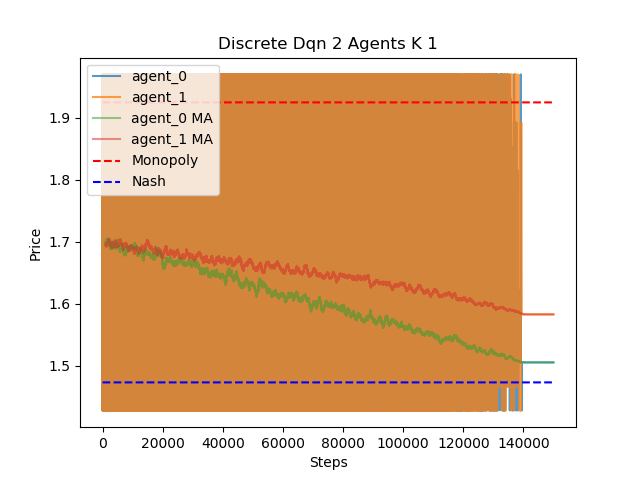
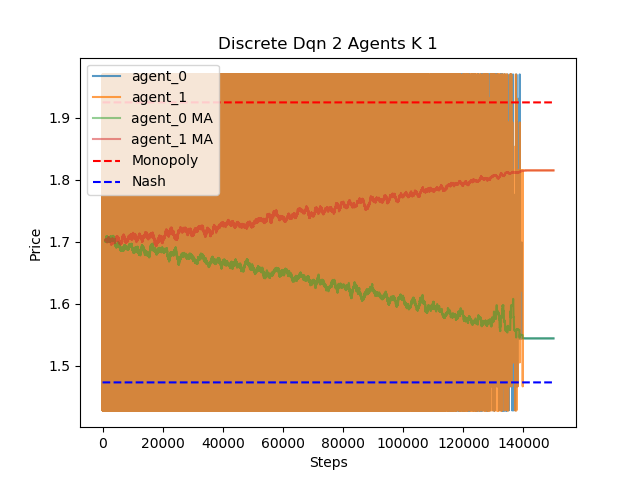
auto

Changed region(s): [[0.1562, 0.375, 0.875, 0.875], [0.75, 0.1562, 0.875, 0.5312]]

diff --git a/gym_bertrand_test.py b/gym_bertrand_test.py
@@ -58,8 +58,8 @@ from ray.tune.logger import pretty_print
 # CHANGE PARAMETERS FOR TESTING
 
 # Trainer Choice (Options: QL, SARSA, DQN, PPO, A3C, A2C, DDPG)
-trainer_choice = 'PPO'
-second_trainer_choice = 'DDPG' # leave as empty string ('') for none
+trainer_choice = 'DDPG'
+second_trainer_choice = '' # leave as empty string ('') for none
 
 # Collusion Mitigation Mechanism
 supervisor = False
@@ -81,9 +81,10 @@ log_frequency = 50000
 # Performance and Testing
 overwrite_id = 1
 num_gpus = 0
+len_eval_after_training = 1000
 len_eval_after_deviation = 20
 
-if trainer_choice in ['QL', 'SARSA', 'A3C', 'DQN']:
+if trainer_choice in ['QL', 'SARSA', 'DQN', 'PPO']:
     state_space = 'discrete'
 else:
     state_space = 'continuous'
@@ -112,8 +113,8 @@ config = {
 
 path = os.path.abspath(os.getcwd())
 
-def eval_then_unload(observation):
-    for i in range(len_eval_after_deviation):
+def eval_then_unload(observation, len_eval):
+    for i in range(len_eval):
         # action = trainer.compute_action(observation)
         action = {}
         for agent_id, agent_obs in observation.items():
@@ -139,7 +140,7 @@ def eval_then_unload(observation):
 if trainer_choice not in ['QL', 'SARSA']:
 
     use_pickle = True
-    max_steps = 10000
+    max_steps = 50000
 
     pklfile = './arrays/' + savefile + '.pkl'
 
@@ -213,7 +214,7 @@ if trainer_choice not in ['QL', 'SARSA']:
                     # Config for the Exploration class' constructor:
                     "initial_epsilon": 1.0,
                     "final_epsilon": 0.000001,
-                    "epsilon_timesteps": 100000,  # Timesteps over which to anneal epsilon. Originally set to 250000.
+                    "epsilon_timesteps": 140000,  # Timesteps over which to anneal epsilon. Originally set to 250000.
                 }
             trainer = DQNTrainer(config = config, env = 'Bertrand')
         elif trainer_choice == 'PPO':
@@ -286,7 +287,6 @@ if trainer_choice not in ['QL', 'SARSA']:
         if 'PPO' in trainer_choice_list and 'DQN' in trainer_choice_list:
             custom_training_workflow = custom_training_workflow_ppo_dqn
         elif 'PPO' in trainer_choice_list and 'A3C' in trainer_choice_list:
-            # print('OOOOOOOOOOOOOOOOOOOOOOOOOOOOOOOOOOOOOOOOOOOOOO')
             custom_training_workflow = custom_training_workflow_ppo_a3c
         elif 'DQN' in trainer_choice_list and 'A3C' in trainer_choice_list:
             custom_training_workflow = custom_training_workflow_dqn_a3c
@@ -330,17 +330,22 @@ if trainer_choice not in ['QL', 'SARSA']:
         env.action_history[env.agents[i]] = action_history_array[i].tolist()
 
     env.plot(overwrite_id=overwrite_id)
-    env.plot_last(last_n=100, overwrite_id=overwrite_id)
+    env.plot_last(last_n=1000, window=100, title_str='_train', overwrite_id=overwrite_id)
 
     if not second_trainer_choice:
+        # Eval
+        observation = env.one_step()
+        eval_then_unload(observation=observation, len_eval=len_eval_after_training)
+        env.plot_last(last_n=len_eval_after_training, window=100, overwrite_id=overwrite_id)
+
         # Deviate downwards
         observation = env.deviate(direction='down')
-        eval_then_unload(observation)
+        eval_then_unload(observation=observation, len_eval=len_eval_after_deviation)
         env.plot_last(last_n=30, title_str='_down_deviation', overwrite_id=overwrite_id)
 
         # Deviate upwards
         observation = env.deviate(direction='up')
-        eval_then_unload(observation)
+        eval_then_unload(observation=observation, len_eval=len_eval_after_deviation)
         env.plot_last(last_n=30, title_str='_up_deviation', overwrite_id=overwrite_id)
 
     os.remove(pklfile)
@@ -395,7 +400,11 @@ else:
         pickle.dump(trainer.q_table, f)
 
     env.plot(overwrite_id=overwrite_id)
-    env.plot_last(last_n=100, overwrite_id=overwrite_id)
+    env.plot_last(last_n=100, title_str='_train', overwrite_id=overwrite_id)
+
+    # observation = env.one_step()
+    # trainer.eval(observation, n=len_eval_after_training)
+    # env.plot_last(last_n=len_eval_after_training, window=100, overwrite_id=overwrite_id)
 
     observation = env.deviate(direction='down')
     trainer.eval(observation, n=len_eval_after_deviation)

diff --git a/gym_bertrandcompetition/envs/bertrand_competition_discrete.py b/gym_bertrandcompetition/envs/bertrand_competition_discrete.py
@@ -232,6 +232,19 @@ class BertrandCompetitionDiscreteEnv(MultiAgentEnv):
 
         return observation, reward, done, info
 
+    def one_step(self):
+        step_actions_dict = {}
+
+        for agent in self.agents:
+            step_actions_dict[agent] = self.action_history[agent][-1]
+
+        if self.supervisor:
+            step_actions_dict['supervisor'] = self.action_history['supervisor'][-1]
+
+        observation, _, _, _ = self.step(step_actions_dict)
+
+        return observation
+
     def deviate(self, direction='down'):
         deviate_actions_dict = {}
 
@@ -294,10 +307,14 @@ class BertrandCompetitionDiscreteEnv(MultiAgentEnv):
         plt.savefig('./figures/' + self.savefile + '_' + str(overwrite_id))
         plt.clf()
 
-    def plot_last(self, last_n=1000, title_str = '', overwrite_id=0):
+    def plot_last(self, last_n=1000, window=None, title_str = '', overwrite_id=0):
+        '''Plot action history.'''
         x = np.arange(last_n)
         for agent in self.agents:
             plt.plot(x, self.action_price_space.take(self.action_history[agent][-last_n:]), alpha=0.75, label=agent)
+        if window is not None:
+            for agent in self.agents:
+                plt.plot(x, pd.Series(self.action_price_space.take(self.action_history[agent][-last_n:])).rolling(window=window).mean(), alpha=0.5, label=agent + ' MA')
         plt.plot(x, np.repeat(self.pM, last_n), 'r--', label='Monopoly')
         plt.plot(x, np.repeat(self.pN, last_n), 'b--', label='Nash')
         plt.xlabel('Steps')

diff --git a/gym_bertrandcompetition/envs/bertrand_competition_continuous.py b/gym_bertrandcompetition/envs/bertrand_competition_continuous.py
@@ -206,6 +206,19 @@ class BertrandCompetitionContinuousEnv(MultiAgentEnv):
 
         return observation, reward, done, info
 
+    def one_step(self):
+        step_actions_dict = {}
+
+        for agent in self.agents:
+            step_actions_dict[agent] = self.action_history[agent][-1]
+
+        if self.supervisor:
+            step_actions_dict['supervisor'] = self.action_history['supervisor'][-1]
+
+        observation, _, _, _ = self.step(step_actions_dict)
+
+        return observation
+
     def deviate(self, direction='down'):
         deviate_actions_dict = {}
 
@@ -268,11 +281,14 @@ class BertrandCompetitionContinuousEnv(MultiAgentEnv):
         plt.savefig('./figures/' + self.savefile + '_' + str(overwrite_id))
         plt.clf()
 
-    def plot_last(self, last_n=1000, title_str = '', overwrite_id=0):
+    def plot_last(self, last_n=1000, window=None, title_str = '', overwrite_id=0):
         '''Plot action history.'''
         x = np.arange(last_n)
         for agent in self.agents:
             plt.plot(x, self.action_history[agent][-last_n:], alpha=0.75, label=agent)
+        if window is not None:
+            for agent in self.agents:
+                plt.plot(x, pd.Series(self.action_history[agent][-last_n:]).rolling(window=window).mean(), alpha=0.5, label=agent + ' MA')
         plt.plot(x, np.repeat(self.pM, last_n), 'r--', label='Monopoly')
         plt.plot(x, np.repeat(self.pN, last_n), 'b--', label='Nash')
         plt.xlabel('Steps')
